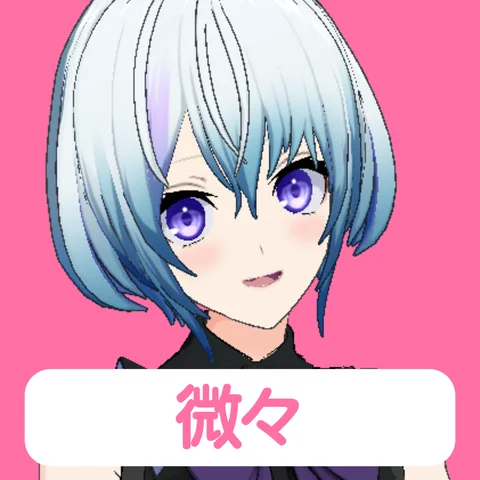
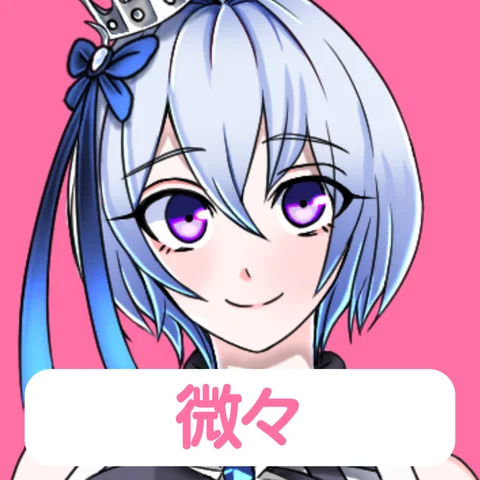
deploy: CastShowcase 自動デプロイ BackStage-unei/bs-cast-showcase@2fd9d7e2eeef4658d96dccccc16089b8625efe98

diff --git a/casts-data.js b/casts-data.js
@@ -203,6 +203,7 @@ window.SHOWCASE = {
       "x_url": "https://x.com/bibikoooooooooo",
       "portrait": "",
       "portraits": [
+        "assets/616_KV02.webp",
         "assets/616_KV01.webp"
       ],
       "icon": "assets/616_icon.webp",
@@ -222,7 +223,7 @@ window.SHOWCASE = {
       "profile_url": "https://back-stage.onelink.me/7z4p?pid=backstage_cast&deep_link_value=https://back-stage.app/casts/616&af_dp=jp.vic-inc.app.back-stage://&af_force_deeplink=true",
       "birth_month": "5月",
       "call_category": "フレンドリー",
-      "accent_color": "#9663ee"
+      "accent_color": "#638eee"
     },
     {
       "cast_id": 236,
